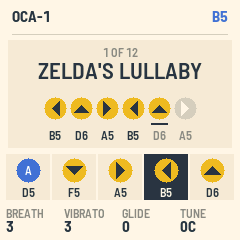
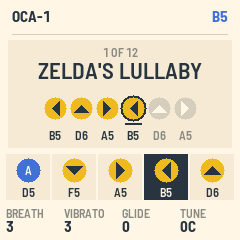
Songbook: the cursor on the note sounding (ringed), on PLAY's note while it plays; the place in a song from the last notes played (Bolero's D A D A keeps D A D); PLAY starts its song afresh; playing on ends the PLAYED card

diff --git a/app/app.c b/app/app.c
@@ -116,12 +116,13 @@ static struct {
     int32_t sounding;                    /* the note sounding (key or PLAY), -1 none */
     uint8_t hist[SONG_MAX];              /* the last buttons played, newest last (NBUTTONS: not a song note) */
     uint8_t step;                        /* how far into the songbook's song the playing has come */
+    int8_t now_i;                        /* the songbook's note sounding (the last one of step), -1 none */
     int8_t heard;                        /* the song heard last, -1 none */
     uint32_t heard_at;
     int8_t auto_i;                       /* PLAY: the note of the song playing, -1 not playing */
     uint32_t auto_t;
     uint8_t redraw;
-} ui = {.sounding = -1, .heard = -1, .auto_i = -1};
+} ui = {.sounding = -1, .now_i = -1, .heard = -1, .auto_i = -1};
 
 static void text_cat(char *d, const char *s)
 {
@@ -287,14 +288,19 @@ static void played(int32_t note)
     const song_t *g = &SONGS[set.song];
     uint8_t b = (uint8_t)button_of(note);
     int32_t s;
-    uint32_t i;
+    uint32_t i, k;
+    ui.heard = -1;                           /* playing on: the song heard last is let go */
     for (i = 0; i + 1u < SONG_MAX; i++)
         ui.hist[i] = ui.hist[i + 1];
     ui.hist[SONG_MAX - 1] = b;
-    if (ui.step < g->n && g->b[ui.step] == b)
-        ui.step++;
-    else
-        ui.step = g->b[0] == b ? 1u : 0u;
+    for (k = g->n; k; k--) {                 /* the step: the longest start of the song the history ends with */
+        for (i = 0; i < k && ui.hist[SONG_MAX - k + i] == g->b[i]; i++)
+            ;
+        if (i == k)
+            break;
+    }
+    ui.step = (uint8_t)k;
+    ui.now_i = (int8_t)(k ? (int32_t)k - 1 : -1);
     for (s = 0; s < NSONGS; s++) {           /* the history ends with song s */
         const song_t *h = &SONGS[s];
         for (i = 0; i < h->n && ui.hist[SONG_MAX - h->n + i] == h->b[i]; i++)
@@ -328,6 +334,7 @@ static void silence(void)
     if (ui.sounding >= 0)
         plat_midi_send(0x08u | 0x80u << 8 | (uint32_t)ui.sounding << 16, TO_USB);
     ui.sounding = -1;
+    ui.now_i = -1;
     oca_note_off();
     ui.redraw = 1;
 }
@@ -370,10 +377,13 @@ static void auto_tick(uint32_t now)
 static void auto_start(void)
 {
     char t[48];
+    uint32_t i;
     silence();
     ui.auto_i = 0;
     ui.auto_t = plat_ms();
     ui.step = 0;
+    for (i = 0; i < SONG_MAX; i++)           /* the song from its start, whatever came before */
+        ui.hist[i] = NBUTTONS;
     t[0] = 0;
     text_cat(t, "PLAYING ");
     text_cat(t, SONGS[set.song].name);
@@ -587,6 +597,8 @@ static void draw_song(void)
     char t[16], n[8];
     int32_t i, w = 26, x0 = 120 - (int32_t)g->n * w / 2 + w / 2;
     int done = ui.heard == (int8_t)set.song && plat_ms() - ui.heard_at < 2500u;
+    /* the cursor: PLAY's note (through its gap too), else the note held, else the next one to play */
+    int32_t cur = ui.auto_i >= 0 ? ui.auto_i : ui.now_i >= 0 ? ui.now_i : ui.step;
     cv_begin(240, 116, C_PAPER);
     cv_rect(8, 4, 224, 108, C_CARD);
     int_text(set.song + 1, t);
@@ -599,12 +611,14 @@ static void draw_song(void)
     cv_text(120 - text_w(f, g->name) / 2, 24, f, g->name, done ? C_GOOD : C_INK);
     for (i = 0; i < (int32_t)g->n; i++) {
         int32_t cx = x0 + i * w, cy = 72;
-        int played_yet = done || i < (int32_t)ui.step;
-        button_glyph(cx, cy, 11, g->b[i], !played_yet && i != (int32_t)ui.step);
-        if (i == (int32_t)ui.step && !done)
+        int played_yet = done || i < (int32_t)ui.step, on = ui.sounding >= 0 && !done && i == cur && i < (int32_t)ui.step;
+        if (on)                              /* sounding: ringed */
+            disc(cx, cy, 13, C_INK);
+        button_glyph(cx, cy, 11, g->b[i], !played_yet && i != cur);
+        if (i == cur && !done)
             cv_rect(cx - 8, cy + 15, 17, 2, C_INK);
         note_name(BUTTON_NOTE[g->b[i]] + 12 * set.octave, t);
-        cv_text(cx - text_w(&FONT_XS, t) / 2, cy + 20, &FONT_XS, t, played_yet ? C_INK : C_SOFT);
+        cv_text(cx - text_w(&FONT_XS, t) / 2, cy + 20, &FONT_XS, t, played_yet || i == cur ? C_INK : C_SOFT);
     }
     cv_blit(0, 36);
 }
@@ -660,8 +674,9 @@ void app_frame(void)
         ui.redraw = 1;
     }
     if (ui.heard >= 0 && now - ui.heard_at >= 2500u) {   /* the song heard: its card goes back to the guide */
+        if (ui.heard == (int8_t)set.song)
+            ui.step = 0;
         ui.heard = -1;
-        ui.step = 0;
         ui.redraw = 1;
     }
     if (ui.redraw || now / 300u != blink) {

diff --git a/app/docs/MANUAL.md b/app/docs/MANUAL.md
@@ -62,12 +62,12 @@ If the game misses notes, hold each one a little longer or bring the FM-1 closer
 
 ## 3. The screen
 
-![OCA-1 halfway through Zelda's Lullaby: the first three buttons played, an underline under the fourth, B5 lit among the five notes](img/screen-playing.png "Halfway through a song")
+![OCA-1 halfway through Zelda's Lullaby: the first three buttons played, the fourth ringed and underlined as it sounds, B5 lit among the five notes](img/screen-playing.png "Halfway through a song")
 
 | Part | What it shows |
 | --- | --- |
 | Header | Shows OCA-1 and the octave, or the note that's sounding. After you change something, a message shows here for a moment. |
-| Songbook card | Shows the song's place in the book, its name and its buttons, with each button's note below it. The buttons you've played so far are in color, and the next one is underlined. |
+| Songbook card | Shows the song's place in the book, its name and its buttons, with each button's note below it. The buttons you've played so far are in color. The note you're playing has a ring around it and a line under it, and when you let go, the line moves to the next one. |
 | Five notes | Shows the game's buttons and their notes. The note that's sounding is dark. |
 | Knobs | Show BREATH, VIBRATO, GLIDE and TUNE. |
 
